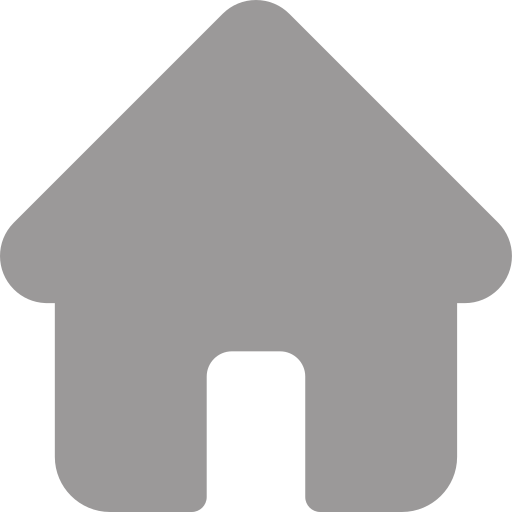
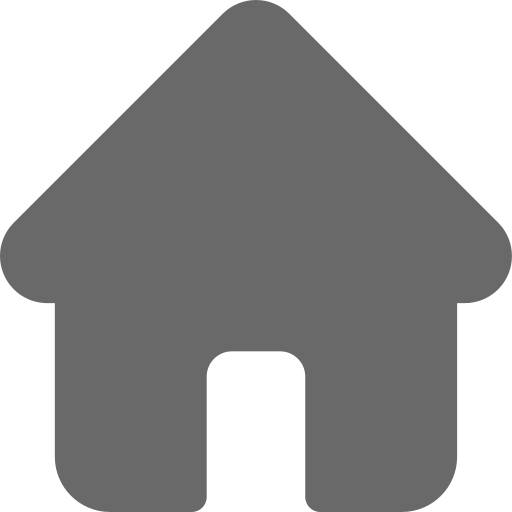
added some screen

diff --git a/app/navigation/AppNavigation.js b/app/navigation/AppNavigation.js
@@ -9,6 +9,10 @@ import {createBottomTabNavigator} from '@react-navigation/bottom-tabs';
 import Login from '../screens/Login';
 import VerifyOtp from '../screens/VerifyOtp';
 import Home from '../screens/Home';
+import MyTrip from '../screens/MyTrip';
+import Offers from '../screens/Offers';
+import TripIdea from '../screens/TripIdea';
+import TripMony from '../screens/TripMony';
 import images from '../constants/images';
 import styles from './appNavigationStyle';
 
@@ -25,20 +29,51 @@ const NavigationStack = () => {
           options={{
             tabBarLabel: '',
             tabBarIcon: ({focused}) => {
-              return (
-                <View style={{alignItems: 'center'}}>
-                  <Image
-                    source={images.home}
-                    style={styles.icon}
-                    resizeMode="contain"
-                  />
-                  <View style={styles.activeDot} />
-                </View>
-              );
+              if (focused) {
+                return (
+                  <View style={{alignItems: 'center'}}>
+                    <Image
+                      source={images.home}
+                      style={styles.icon}
+                      resizeMode="contain"
+                    />
+                    <View style={styles.activeDot} />
+                  </View>
+                );
+              }
             },
           }}
         />
-        {/* <Tab.Screen
+        <Tab.Screen
+          name="MyTrip"
+          component={MyTrip}
+          options={{
+            tabBarLabel: '',
+            tabBarIcon: ({focused}) => {
+              if (focused) {
+                return (
+                  <View style={{alignItems: 'center'}}>
+                    <Image
+                      source={images.suitcase}
+                      style={styles.icon}
+                      resizeMode="contain"
+                    />
+                    <View style={styles.activeDot} />
+                  </View>
+                );
+              } else {
+                return (
+                  <Image
+                    source={images.suitcase}
+                    style={styles.icon}
+                    resizeMode="contain"
+                  />
+                );
+              }
+            },
+          }}
+        />
+        <Tab.Screen
           name="Offers"
           component={Offers}
           options={{
@@ -48,7 +83,7 @@ const NavigationStack = () => {
                 return (
                   <View style={{alignItems: 'center'}}>
                     <Image
-                      source={images.footerIcons.offer_enabled}
+                      source={images.discount}
                       style={styles.icon}
                       resizeMode="contain"
                     />
@@ -58,32 +93,18 @@ const NavigationStack = () => {
               } else {
                 return (
                   <Image
-                    source={images.footerIcons.offer_disabled}
+                    source={images.discount}
                     style={styles.icon}
                     resizeMode="contain"
                   />
                 );
               }
             },
-          }}
-        />
-        <Tab.Screen
-          name="Search"
-          component={Search}
-          options={{
-            tabBarLabel: '',
-            tabBarIcon: () => (
-              <Image
-                source={images.footerIcons.icon}
-                style={{width: 64, height: 64}}
-                resizeMode="contain"
-              />
-            ),
           }}
         />
         <Tab.Screen
           name="Favourites"
-          component={Favourites}
+          component={TripIdea}
           options={{
             tabBarLabel: '',
             tabBarIcon: ({focused}) => {
@@ -91,7 +112,7 @@ const NavigationStack = () => {
                 return (
                   <View style={{alignItems: 'center'}}>
                     <Image
-                      source={images.footerIcons.favourite_enabled}
+                      source={images.lamp}
                       style={styles.icon}
                       resizeMode="contain"
                     />
@@ -101,7 +122,7 @@ const NavigationStack = () => {
               } else {
                 return (
                   <Image
-                    source={images.footerIcons.favourite_disabled}
+                    source={images.lamp}
                     style={styles.icon}
                     resizeMode="contain"
                   />
@@ -111,8 +132,8 @@ const NavigationStack = () => {
           }}
         />
         <Tab.Screen
-          name="Profile"
-          component={Profile}
+          name="TripMony"
+          component={TripMony}
           options={{
             tabBarLabel: '',
             tabBarIcon: ({focused}) => {
@@ -120,7 +141,7 @@ const NavigationStack = () => {
                 return (
                   <View style={{alignItems: 'center'}}>
                     <Image
-                      source={images.footerIcons.profile_enabled}
+                      source={images.snowed_mountains}
                       style={styles.icon}
                       resizeMode="contain"
                     />
@@ -130,7 +151,7 @@ const NavigationStack = () => {
               } else {
                 return (
                   <Image
-                    source={images.footerIcons.profile_disabled}
+                    source={imagesimages.snowed_mountains}
                     style={styles.icon}
                     resizeMode="contain"
                   />
@@ -138,7 +159,7 @@ const NavigationStack = () => {
               }
             },
           }}
-        /> */}
+        />
       </Tab.Navigator>
     );
   };

diff --git a/app/screens/VerifyOtp/index.js b/app/screens/VerifyOtp/index.js
@@ -1,5 +1,5 @@
 //library imports
-import React, {useState, useEffect} from 'react';
+import React, {useState} from 'react';
 import {
   View,
   SafeAreaView,
@@ -15,7 +15,7 @@ import styles from './verifyOtpStyle';
 import BaseStyle from '../../styles/BaseStyle';
 import Spinner from '../../component/Spinner';
 import Header from '../../component/Header';
-
+//#6A6969
 const VerifyOtp = props => {
   const {navigation} = props;
   const {phoneNumber, confirmation} = props.route.params;
@@ -27,7 +27,9 @@ const VerifyOtp = props => {
     console.log('clicked....');
     try {
       let res = await confirmation.confirm(code);
-      console.log('res ->', res);
+      if (res?.user) {
+        props.navigation.navigate('Home');
+      }
     } catch (error) {
       console.log('error ->', error);
       alert('Invalid code.');

diff --git a/app/screens/TripIdea/index.js b/app/screens/TripIdea/index.js
@@ -1,0 +1,24 @@
+//library imports
+import React from 'react';
+import {View, SafeAreaView, KeyboardAvoidingView, Text} from 'react-native';
+
+//component imports
+
+import styles from './tripIdeaStyles';
+import BaseStyle from '../../styles/BaseStyle';
+
+const TripIdea = () => {
+  return (
+    <SafeAreaView style={BaseStyle.safearea}>
+      <KeyboardAvoidingView
+        behavior={Platform.OS == 'ios' ? 'padding' : ''}
+        style={{flex: 1}}>
+        <View style={styles.container}>
+          <Text style={styles.text}>TripIdea</Text>
+        </View>
+      </KeyboardAvoidingView>
+    </SafeAreaView>
+  );
+};
+
+export default TripIdea;

diff --git a/app/screens/TripMony/index.js b/app/screens/TripMony/index.js
@@ -1,0 +1,24 @@
+//library imports
+import React from 'react';
+import {View, SafeAreaView, KeyboardAvoidingView, Text} from 'react-native';
+
+//component imports
+
+import styles from './tripMony';
+import BaseStyle from '../../styles/BaseStyle';
+
+const TripMony = () => {
+  return (
+    <SafeAreaView style={BaseStyle.safearea}>
+      <KeyboardAvoidingView
+        behavior={Platform.OS == 'ios' ? 'padding' : ''}
+        style={{flex: 1}}>
+        <View style={styles.container}>
+          <Text style={styles.text}>TripMony</Text>
+        </View>
+      </KeyboardAvoidingView>
+    </SafeAreaView>
+  );
+};
+
+export default TripMony;

diff --git a/app/screens/MyTrip/index.js b/app/screens/MyTrip/index.js
@@ -1,0 +1,24 @@
+//library imports
+import React from 'react';
+import {View, SafeAreaView, KeyboardAvoidingView, Text} from 'react-native';
+
+//component imports
+
+import styles from './myTripStyles';
+import BaseStyle from '../../styles/BaseStyle';
+
+const MyTrip = () => {
+  return (
+    <SafeAreaView style={BaseStyle.safearea}>
+      <KeyboardAvoidingView
+        behavior={Platform.OS == 'ios' ? 'padding' : ''}
+        style={{flex: 1}}>
+        <View style={styles.container}>
+          <Text style={styles.text}>MyTrip</Text>
+        </View>
+      </KeyboardAvoidingView>
+    </SafeAreaView>
+  );
+};
+
+export default MyTrip;

diff --git a/app/screens/Offers/index.js b/app/screens/Offers/index.js
@@ -1,0 +1,24 @@
+//library imports
+import React from 'react';
+import {View, SafeAreaView, KeyboardAvoidingView, Text} from 'react-native';
+
+//component imports
+
+import styles from './offersStyles';
+import BaseStyle from '../../styles/BaseStyle';
+
+const Offers = () => {
+  return (
+    <SafeAreaView style={BaseStyle.safearea}>
+      <KeyboardAvoidingView
+        behavior={Platform.OS == 'ios' ? 'padding' : ''}
+        style={{flex: 1}}>
+        <View style={styles.container}>
+          <Text style={styles.text}>Offers</Text>
+        </View>
+      </KeyboardAvoidingView>
+    </SafeAreaView>
+  );
+};
+
+export default Offers;

diff --git a/app/constants/images.js b/app/constants/images.js
@@ -2,4 +2,8 @@ export default {
   dropDown: require('../../assets/images/dropDown.png'),
   backArrow: require('../../assets/images/backArrow.png'),
   home: require('../../assets/images/home.png'),
+  discount: require('../../assets/images/discount.png'),
+  lamp: require('../../assets/images/lamp.png'),
+  snowed_mountains: require('../../assets/images/snowed_mountains.png'),
+  suitcase: require('../../assets/images/suitcase.png'),
 };

diff --git a/app/screens/MyTrip/myTripStyles.js b/app/screens/MyTrip/myTripStyles.js
@@ -1,0 +1,17 @@
+import {StyleSheet} from 'react-native';
+
+export default styles = StyleSheet.create({
+  container: {
+    flex: 1,
+    backgroundColor: '#FFFFFF',
+    padding: 16,
+    justifyContent: 'center',
+    overflow: 'visible',
+  },
+  text: {
+    fontSize: 26,
+    color: '#42403D',
+    fontWeight: '700',
+    paddingBottom: 15,
+  },
+});

diff --git a/app/screens/Offers/offersStyles.js b/app/screens/Offers/offersStyles.js
@@ -1,0 +1,17 @@
+import {StyleSheet} from 'react-native';
+
+export default styles = StyleSheet.create({
+  container: {
+    flex: 1,
+    backgroundColor: '#FFFFFF',
+    padding: 16,
+    justifyContent: 'center',
+    overflow: 'visible',
+  },
+  text: {
+    fontSize: 26,
+    color: '#42403D',
+    fontWeight: '700',
+    paddingBottom: 15,
+  },
+});

diff --git a/app/screens/TripIdea/tripIdeaStyles.js b/app/screens/TripIdea/tripIdeaStyles.js
@@ -1,0 +1,17 @@
+import {StyleSheet} from 'react-native';
+
+export default styles = StyleSheet.create({
+  container: {
+    flex: 1,
+    backgroundColor: '#FFFFFF',
+    padding: 16,
+    justifyContent: 'center',
+    overflow: 'visible',
+  },
+  text: {
+    fontSize: 26,
+    color: '#42403D',
+    fontWeight: '700',
+    paddingBottom: 15,
+  },
+});

diff --git a/app/screens/TripMony/tripMony.js b/app/screens/TripMony/tripMony.js
@@ -1,0 +1,17 @@
+import {StyleSheet} from 'react-native';
+
+export default styles = StyleSheet.create({
+  container: {
+    flex: 1,
+    backgroundColor: '#FFFFFF',
+    padding: 16,
+    justifyContent: 'center',
+    overflow: 'visible',
+  },
+  text: {
+    fontSize: 26,
+    color: '#42403D',
+    fontWeight: '700',
+    paddingBottom: 15,
+  },
+});
